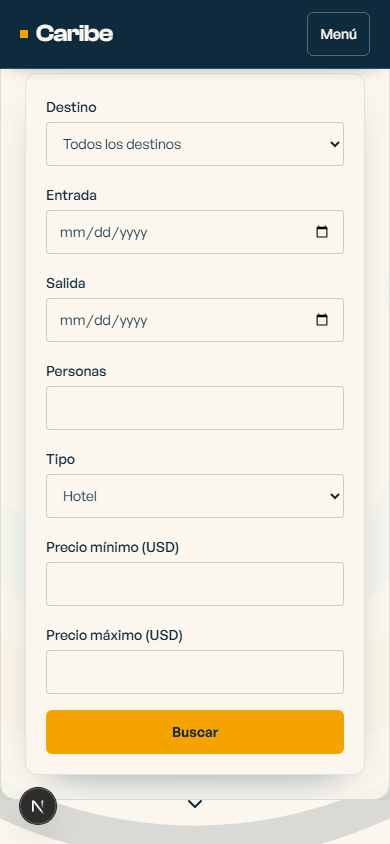
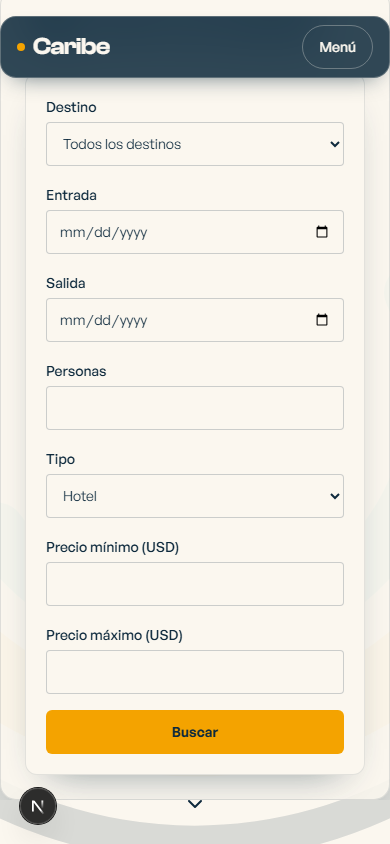
feat(web): convertir la cabecera en una barra flotante
La cabecera pasa a ser una barra centrada, separada del borde superior, semitransparente y con desenfoque. El wordmark queda a la izquierda y se anaden enlaces a Hoteles, Tours, Paquetes y Vuelos que abren /search con el filtro type, junto al badge BCV, el selector de idioma y la sesion.

Task: T-NAV-14

Changed region(s): [[0.0, 0.0, 1.0, 0.1232], [0.4308, 0.8626, 0.5538, 0.8934]]

diff --git a/apps/web/src/components/header-frame.tsx b/apps/web/src/components/header-frame.tsx
@@ -4,15 +4,23 @@ import { useEffect, useState } from "react";
 
 interface HeaderFrameProps {
   brand: React.ReactNode;
+  products: React.ReactNode;
   tools: React.ReactNode;
   menuLabel: string;
+  productsLabel: string;
 }
 
 /**
- * Marina de la cabecera. Solo observa el scroll y abre el menu movil; el
- * contenido traducido se pasa como nodos desde el componente servidor.
+ * Barra flotante de la cabecera. Solo observa el scroll y abre el menú móvil;
+ * el contenido traducido se pasa como nodos desde el componente servidor.
  */
-export function HeaderFrame({ brand, tools, menuLabel }: HeaderFrameProps) {
+export function HeaderFrame({
+  brand,
+  products,
+  tools,
+  menuLabel,
+  productsLabel,
+}: HeaderFrameProps) {
   const [scrolled, setScrolled] = useState(false);
   const [menuOpen, setMenuOpen] = useState(false);
 
@@ -36,24 +44,27 @@ export function HeaderFrame({ brand, tools, menuLabel }: HeaderFrameProps) {
 
   return (
     <header className="site-header" data-scrolled={scrolled ? "true" : "false"}>
-      <div className="mx-auto flex w-full max-w-7xl flex-wrap items-center justify-between gap-3 px-5 py-3">
+      <div className="site-bar mx-auto flex w-full max-w-6xl flex-wrap items-center gap-x-5 gap-y-2 px-4 py-2">
         {brand}
-        <div
-          id="site-tools"
-          data-open={menuOpen ? "true" : "false"}
-          className="site-tools flex w-full items-center justify-end gap-2 md:w-auto"
-        >
-          {tools}
-        </div>
         <button
           type="button"
-          className="h-11 rounded-md border border-bone/30 px-3 text-sm font-medium text-bone md:hidden"
+          className="site-menu ms-auto h-11 rounded-full border border-bone/30 px-4 text-sm font-medium text-bone transition-colors duration-300 hover:bg-bone/10 lg:hidden"
           aria-expanded={menuOpen}
           aria-controls="site-tools"
           onClick={() => setMenuOpen((open) => !open)}
         >
           {menuLabel}
         </button>
+        <div
+          id="site-tools"
+          data-open={menuOpen ? "true" : "false"}
+          className="site-tools flex w-full flex-col gap-3 border-t border-bone/15 pt-3 lg:w-auto lg:flex-1 lg:flex-row lg:items-center lg:justify-between lg:border-t-0 lg:pt-0"
+        >
+          <nav aria-label={productsLabel} className="site-products flex flex-wrap items-center gap-1">
+            {products}
+          </nav>
+          <div className="flex flex-wrap items-center gap-2">{tools}</div>
+        </div>
       </div>
     </header>
   );

diff --git a/apps/web/src/app/globals.css b/apps/web/src/app/globals.css
@@ -64,9 +64,9 @@ body {
   @apply bg-bone font-body text-ink antialiased;
 }
 
-/* Compensa la cabecera fija al llegar a una sección con ancla. */
+/* Compensa la barra flotante al llegar a una sección con ancla. */
 .scroll-target {
-  scroll-margin-top: 5.5rem;
+  scroll-margin-top: 7rem;
 }
 
 /* Gesto de bajada: fijo al viewport y retirado del tabulado fuera de su sección. */
@@ -172,36 +172,57 @@ body {
   outline-offset: 2px;
 }
 
-/* Cabecera flotante: el azul solido es la degradacion antes del @supports. */
+/* Barra flotante: el azul solido es la degradacion antes del @supports. */
 .site-header {
   position: fixed;
-  inset-block-start: 0;
+  inset-block-start: 1rem;
   inset-inline: 0;
   z-index: 50;
+  pointer-events: none;
+}
+
+.site-bar {
+  pointer-events: auto;
+  border: 1px solid color-mix(in srgb, var(--color-bone) 18%, transparent);
+  border-radius: 1rem;
   background-color: var(--color-ink);
-  border-block-end: 1px solid color-mix(in srgb, var(--color-bone) 18%, transparent);
-  box-shadow: 0 10px 30px -12px rgb(14 42 61 / 0.45);
+  box-shadow: 0 18px 40px -20px rgb(14 42 61 / 0.65);
+  transition:
+    background-color 400ms ease,
+    border-color 400ms ease,
+    box-shadow 400ms ease;
 }
 
 @supports ((backdrop-filter: blur(1px)) or (-webkit-backdrop-filter: blur(1px))) {
-  .site-header[data-scrolled="false"] {
-    background-color: color-mix(in srgb, var(--color-ink) 72%, transparent);
-    -webkit-backdrop-filter: blur(14px);
-    backdrop-filter: blur(14px);
+  .site-bar {
+    border-color: color-mix(in srgb, var(--color-bone) 24%, transparent);
+    -webkit-backdrop-filter: blur(20px) saturate(140%);
+    backdrop-filter: blur(20px) saturate(140%);
+  }
+
+  .site-header[data-scrolled="false"] .site-bar {
+    background-color: color-mix(in srgb, var(--color-ink) 68%, transparent);
+  }
+
+  .site-header[data-scrolled="true"] .site-bar {
+    background-color: color-mix(in srgb, var(--color-ink) 86%, transparent);
   }
 }
 
-.site-header[data-scrolled="true"] {
-  background-color: var(--color-ink);
-  box-shadow: 0 6px 18px -12px rgb(14 42 61 / 0.6);
+.site-header[data-scrolled="true"] .site-bar {
+  box-shadow: 0 10px 24px -14px rgb(14 42 61 / 0.8);
 }
 
-@media (max-width: 767px) {
+@media (prefers-reduced-motion: reduce) {
+  .site-bar {
+    transition: none;
+  }
+}
+
+@media (max-width: 1023px) {
   .site-tools {
     display: none;
     order: 3;
-    flex-wrap: wrap;
-    justify-content: flex-start;
   }
 
   .site-tools[data-open="true"] {

diff --git a/apps/web/src/components/site-header.tsx b/apps/web/src/components/site-header.tsx
@@ -7,7 +7,14 @@ import { LanguageSwitcher } from "./language-switcher";
 import { SessionNav } from "./session-nav";
 import { TodayRateBadge } from "./today-rate-badge";
 
-/** Cabecera de la web: wordmark de texto, tasa, idioma y sesion. */
+const PRODUCT_LINKS = [
+  { key: "hotels", type: "hotel" },
+  { key: "tours", type: "tour" },
+  { key: "packages", type: "package" },
+  { key: "flights", type: "flight" },
+] as const;
+
+/** Cabecera flotante: productos, tasa, idioma,sesión y wordmark. */
 export async function SiteHeader() {
   const [t, labels, requestedLocale] = await Promise.all([
     getTranslations("nav"),
@@ -19,16 +26,30 @@ export async function SiteHeader() {
   return (
     <HeaderFrame
       menuLabel={t("menu")}
+      productsLabel={t("products")}
       brand={
         <Link
           href="/"
-          className="inline-flex min-h-11 items-center gap-2 rounded-sm focus-visible:outline-2 focus-visible:outline-offset-2 focus-visible:outline-amber"
+          className="inline-flex min-h-11 items-center gap-2 rounded-full focus-visible:outline-2 focus-visible:outline-offset-2 focus-visible:outline-amber"
         >
-          <span className="size-2 bg-amber" aria-hidden="true" />
+          <span className="size-2 rounded-full bg-amber" aria-hidden="true" />
           <span className="font-display text-2xl font-semibold tracking-tight text-bone">
             {t("appName")}
           </span>
         </Link>
+      }
+      products={
+        <>
+          {PRODUCT_LINKS.map(({ key, type }) => (
+            <Link
+              key={type}
+              href={{ pathname: "/search", query: { type } }}
+              className="inline-flex min-h-9 items-center rounded-full px-3 text-sm text-bone/80 transition-colors duration-300 hover:bg-bone/10 hover:text-bone"
+            >
+              {t(key)}
+            </Link>
+          ))}
+        </>
       }
       tools={
         <>

diff --git a/apps/web/test/visual-identity.test.ts b/apps/web/test/visual-identity.test.ts
@@ -79,12 +79,16 @@ describe("cabecera y revelacion", () => {
     const html = renderToStaticMarkup(
       createElement(HeaderFrame, {
         brand: createElement("span", null, "Caribe"),
+        products: createElement("span", null, "productos"),
         tools: createElement("span", null, "tasa"),
         menuLabel: "Menú",
+        productsLabel: "Productos",
       }),
     );
     expect(html).toContain('class="site-header"');
+    expect(html).toContain('class="site-bar');
     expect(html).toContain('data-scrolled="false"');
+    expect(html).toContain('aria-label="Productos"');
     expect(html).toContain('aria-controls="site-tools"');
     expect(html).toContain('aria-expanded="false"');
     expect(html).toContain('id="site-tools"');

diff --git a/openspec/changes/f1-navigation-refresh/tasks.md b/openspec/changes/f1-navigation-refresh/tasks.md
@@ -23,7 +23,7 @@ Una tarea a la vez. Capturas de escritorio y móvil antes de cada commit en
   Prueba: escenarios «Badge de tasa compacto» de `specs/web-ui/spec.md`; capturas de cabecera en escritorio y móvil; lint, typecheck y tests en verde.
 - [x] T-NAV-7 Sustituir el selector por un desplegable accesible con banderas VE/US en SVG local, etiquetas «Español»/«English» y activo con `aria-current`; conservar ruta y parámetros al cambiar de idioma.
   Prueba: escenarios «Selector de idioma con banderas» de `specs/web-ui/spec.md`; capturas de cabecera en escritorio y móvil; lint, typecheck y tests en verde.
-- [ ] T-NAV-14 Convertir la cabecera en una barra flotante centrada, semitransparente y con desenfoque, con logo a la izquierda, enlaces a productos (`/search` con filtro `type`), sesión, idioma y tasa BCV.
+- [x] T-NAV-14 Convertir la cabecera en una barra flotante centrada, semitransparente y con desenfoque, con logo a la izquierda, enlaces a productos (`/search` con filtro `type`), sesión, idioma y tasa BCV.
   Prueba: escenarios «Cabecera flotante» de `specs/web-ui/spec.md`; capturas de cabecera en escritorio y móvil; lint, typecheck y tests en verde.
 - [ ] T-NAV-15 Dar al menos 100vh a hero, búsqueda, destacados y cierre, con flecha de hero a búsqueda, de búsqueda a destacados y de destacados al cierre con CTA.
   Prueba: escenario «Secciones a pantalla completa» de `specs/web-ui/spec.md`; `verify:navigation`; capturas de portada en escritorio y móvil; lint, typecheck y tests en verde.
